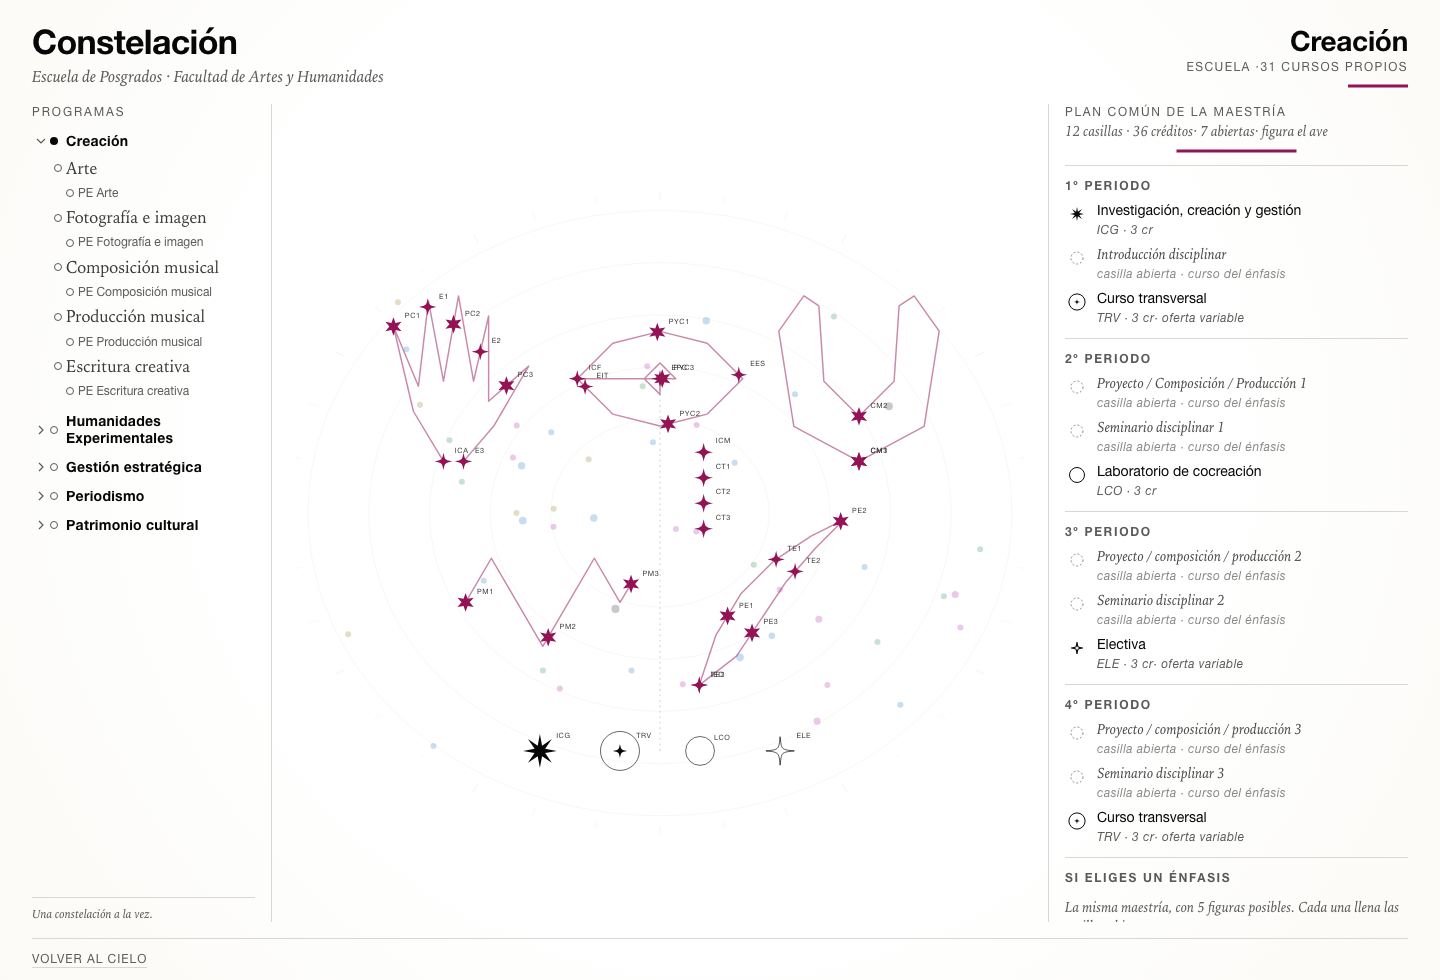
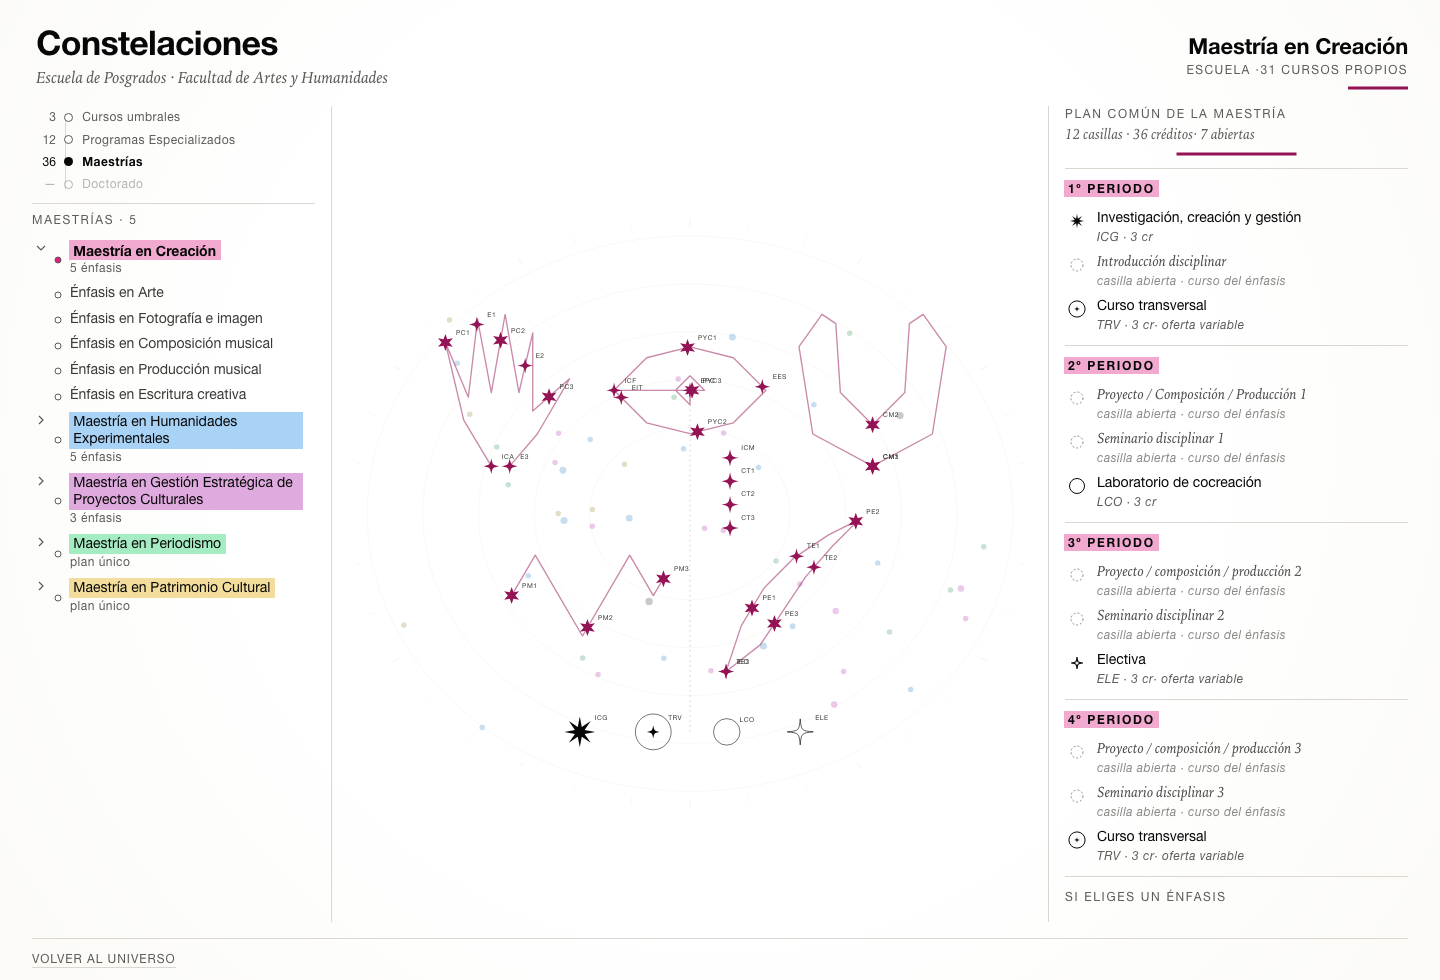
En la maestría, cada figura abre su énfasis
- las figuras de la familia son botones: hover enfoca, clic elige
- relleno transparente para tocar el interior, no solo el trazo
- docs y captura

diff --git a/src/lib/components/SkyStage.svelte b/src/lib/components/SkyStage.svelte
@@ -222,7 +222,7 @@
     </g>
   {/if}
 
-  <g class="figuras" aria-hidden="true">
+  <g class="figuras">
     {#if escena.eje}
       <line
         x1={escena.eje[0][0]}
@@ -235,13 +235,51 @@
       />
     {/if}
     {#each escena.figuras as f (f.programaId)}
-      <path
-        d={polylinePath(f.puntos)}
-        fill="none"
-        stroke={colorDe(f.programaId)}
-        class="silueta"
-        class:visible={!enNebulosa}
-      />
+      {@const activa = foco?.tipo === 'programa' && foco.id === f.programaId}
+      {#if escena.figuras.length > 1}
+        <!-- una maestría con énfasis: cada figura es una puerta a su plan -->
+        <g
+          class="figura"
+          class:activa
+          role="button"
+          tabindex="0"
+          aria-label="Ver {curriculum.programas[f.programaId]?.nombreCorto ?? ''}"
+          onmouseenter={() => onHoverPrograma(f.programaId)}
+          onmouseleave={() => onHoverPrograma(null)}
+          onfocus={() => onHoverPrograma(f.programaId)}
+          onblur={() => onHoverPrograma(null)}
+          onclick={() => onElegir(f.programaId)}
+          onkeydown={(ev) => {
+            if (ev.key === 'Enter' || ev.key === ' ') {
+              ev.preventDefault()
+              onElegir(f.programaId)
+            }
+          }}
+        >
+          <path d={polylinePath(f.puntos)} fill="transparent" stroke="none" class="zona-figura" />
+          <path
+            d={polylinePath(f.puntos)}
+            fill="none"
+            stroke={colorDe(f.programaId)}
+            class="silueta"
+            class:visible={!enNebulosa}
+          />
+          <text
+            x={f.puntos.reduce((a, q) => a + q[0], 0) / f.puntos.length}
+            y={Math.max(...f.puntos.map((q) => q[1])) + 22}
+            class="nombre-figura"
+            class:visible={activa}
+          >{curriculum.programas[f.programaId]?.nombreCorto ?? ''}</text>
+        </g>
+      {:else}
+        <path
+          d={polylinePath(f.puntos)}
+          fill="none"
+          stroke={colorDe(f.programaId)}
+          class="silueta"
+          class:visible={!enNebulosa}
+        />
+      {/if}
     {/each}
   </g>
 
@@ -455,6 +493,41 @@
   }
 
   /* el relleno lo pone la clase hl-* de app.css, para no pisarla con el scope */
+
+  .figura {
+    cursor: pointer;
+    outline: none;
+  }
+
+  .zona-figura {
+    pointer-events: all;
+  }
+
+  .figura.activa .silueta {
+    stroke-width: calc(var(--stroke-const) + 1.2);
+    opacity: 1;
+  }
+
+  .figura:focus-visible .silueta {
+    stroke: var(--c-focus);
+  }
+
+  .nombre-figura {
+    font-family: var(--ff-sans);
+    font-size: 12px;
+    font-weight: 700;
+    letter-spacing: 0.06em;
+    text-transform: uppercase;
+    fill: var(--c-ink);
+    text-anchor: middle;
+    opacity: 0;
+    transition: opacity var(--t-fast) var(--ease);
+    pointer-events: none;
+  }
+
+  .nombre-figura.visible {
+    opacity: 1;
+  }
 
   .silueta {
     stroke-width: var(--stroke-const);

diff --git a/docs/design-system.md b/docs/design-system.md
@@ -179,6 +179,7 @@ radio: el cielo de fondo no compite con la constelación encendida.
 | `Debug` | — | panel | Solo con `?debug` en la URL. Dos deslizadores que escriben `--stroke-const` y `--stroke-region` en la raíz. Es una herramienta, no interfaz: no se documenta como componente de producto. |
 | `Region` | `puntos` | visible, oculta, rótulo pulsable | Contorno discontinuo que encierra las figuras de una maestría. Su rótulo es un botón: abre la maestría. Trazo 1, 45 % de opacidad, rótulo partido en líneas. Solo en la escala «maestría». No se usa en la vista de detalle: allí la figura ya es la forma. |
 | `SilhouetteSelector` | `siluetas`, `onElegir` | normal, hover, foco | Sin selección, las quince siluetas repartidas por el cielo, sin pisarse. Trazo al 22 %; al pasar el cursor, 85 % y el nombre. Zona de contacto: relleno transparente + círculo de 46 px. |
+| `Figure` | `programaId`, `puntos` | normal, hover, foco | En la maestría con énfasis, cada figura es un botón: abre su plan. Trazo con relleno transparente para que se pueda tocar el interior, no solo la línea. En la constelación de un solo programa la figura no es interactiva. |
 | `Star` | `course`, `x`, `y`, `r`, `state` | normal, hover, foco, atenuado | `role="button"`, `aria-label` completo y foco por teclado. Al pasar el cursor: halo y rótulo fijo, y la fila del plan se resalta. Fuera de selección: punto sólido al 22 %. |
 
 | `Rail` | `nivel`, `onNivel`, `programaId` | 4 pasos | Barra de escala vertical, arriba de la lista y dentro de su misma columna: crédito, punto y nombre sobre un eje continuo. El paso activo se rellena; el deshabilitado (doctorado) se atenúa al 45 %. |

diff --git a/docs/diary.md b/docs/diary.md
@@ -364,3 +364,11 @@ el que coincide se enciende y se desplaza hasta él.
 
 **La regla queda escrita.** Cualquier superficie nueva que muestre cursos o programas recibe `foco` y
 pinta su fila. Sin eso, la interfaz vuelve a señalar sin encontrarse.
+
+---
+
+## 2026-10-30 · Las figuras son puertas
+
+**En la maestría, cada figura abre su énfasis.** Antes había que volver a la lista; ahora el cielo y
+la lista ofrecen lo mismo. El interior de la figura también responde: lleva un relleno transparente
+para que el blanco no sea el trazo.

diff --git a/docs/plan.md b/docs/plan.md
@@ -140,6 +140,7 @@ brazos; `prefers-reduced-motion` salta al estado final.
 - [x] El rótulo de una región es un botón: abre la maestría
 - [x] Los umbrales orbitan la figura del programa que abren
 - [x] Un solo `Foco` para toda la interfaz: enciende y desplaza en el selector, el plan y el detalle
+- [x] En la maestría, cada figura abre su énfasis con un clic
 - [x] El título vuelve al universo **y** a la escala de maestría
 - [x] Detalle de curso con la escalera «Cuenta para»
 - [x] 34 pruebas
